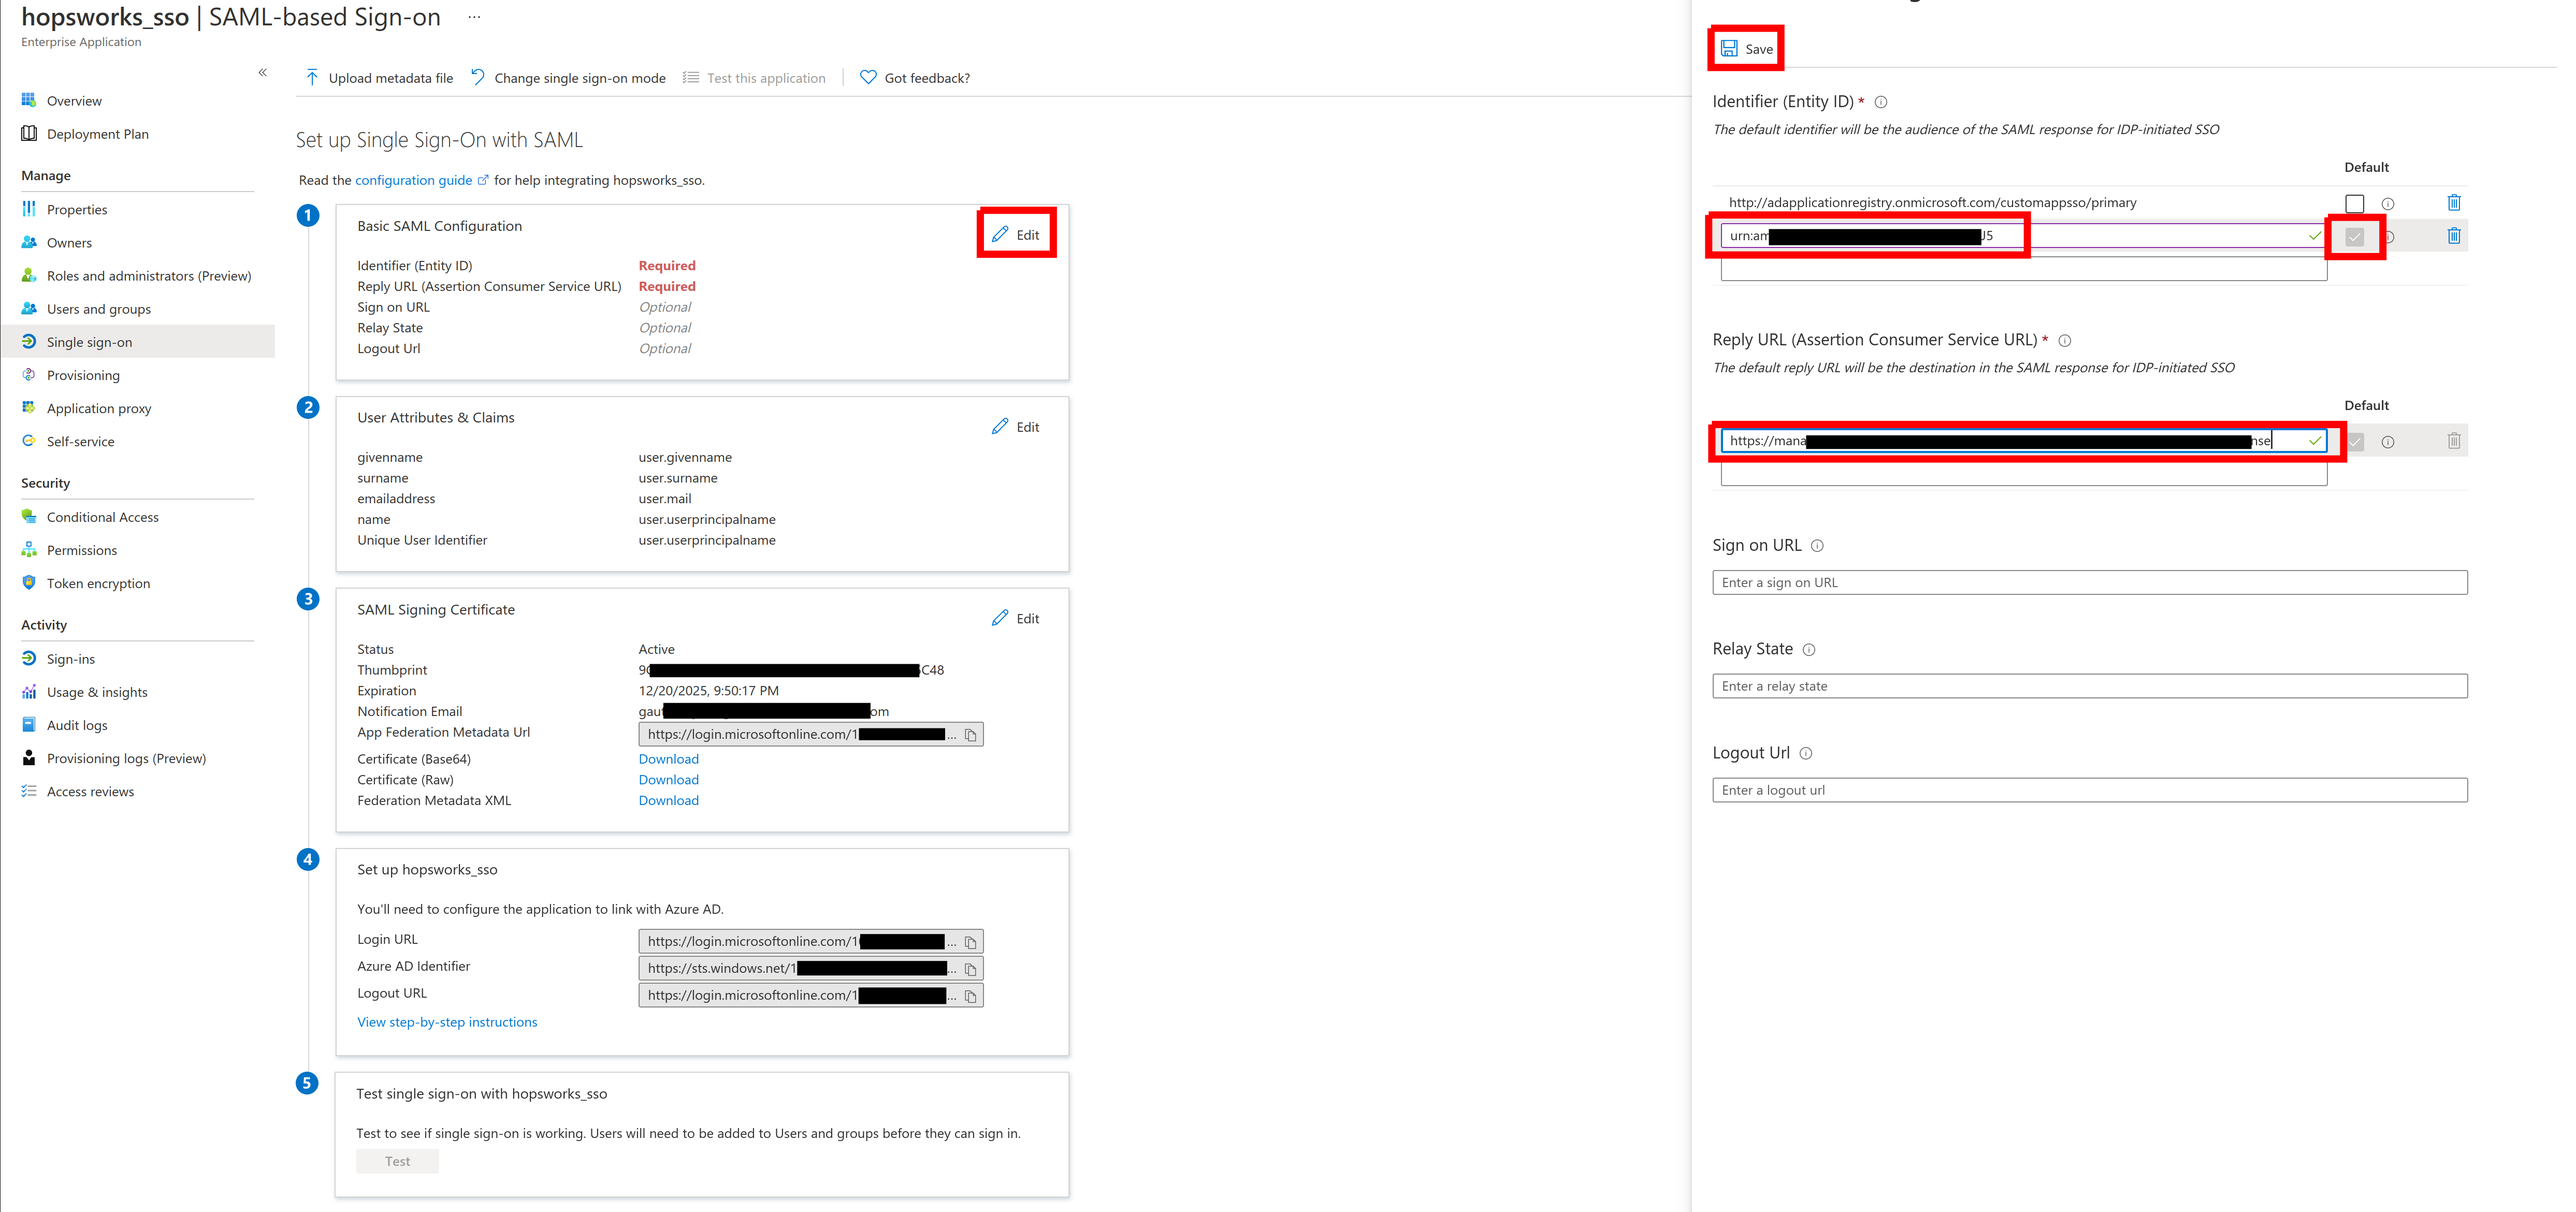
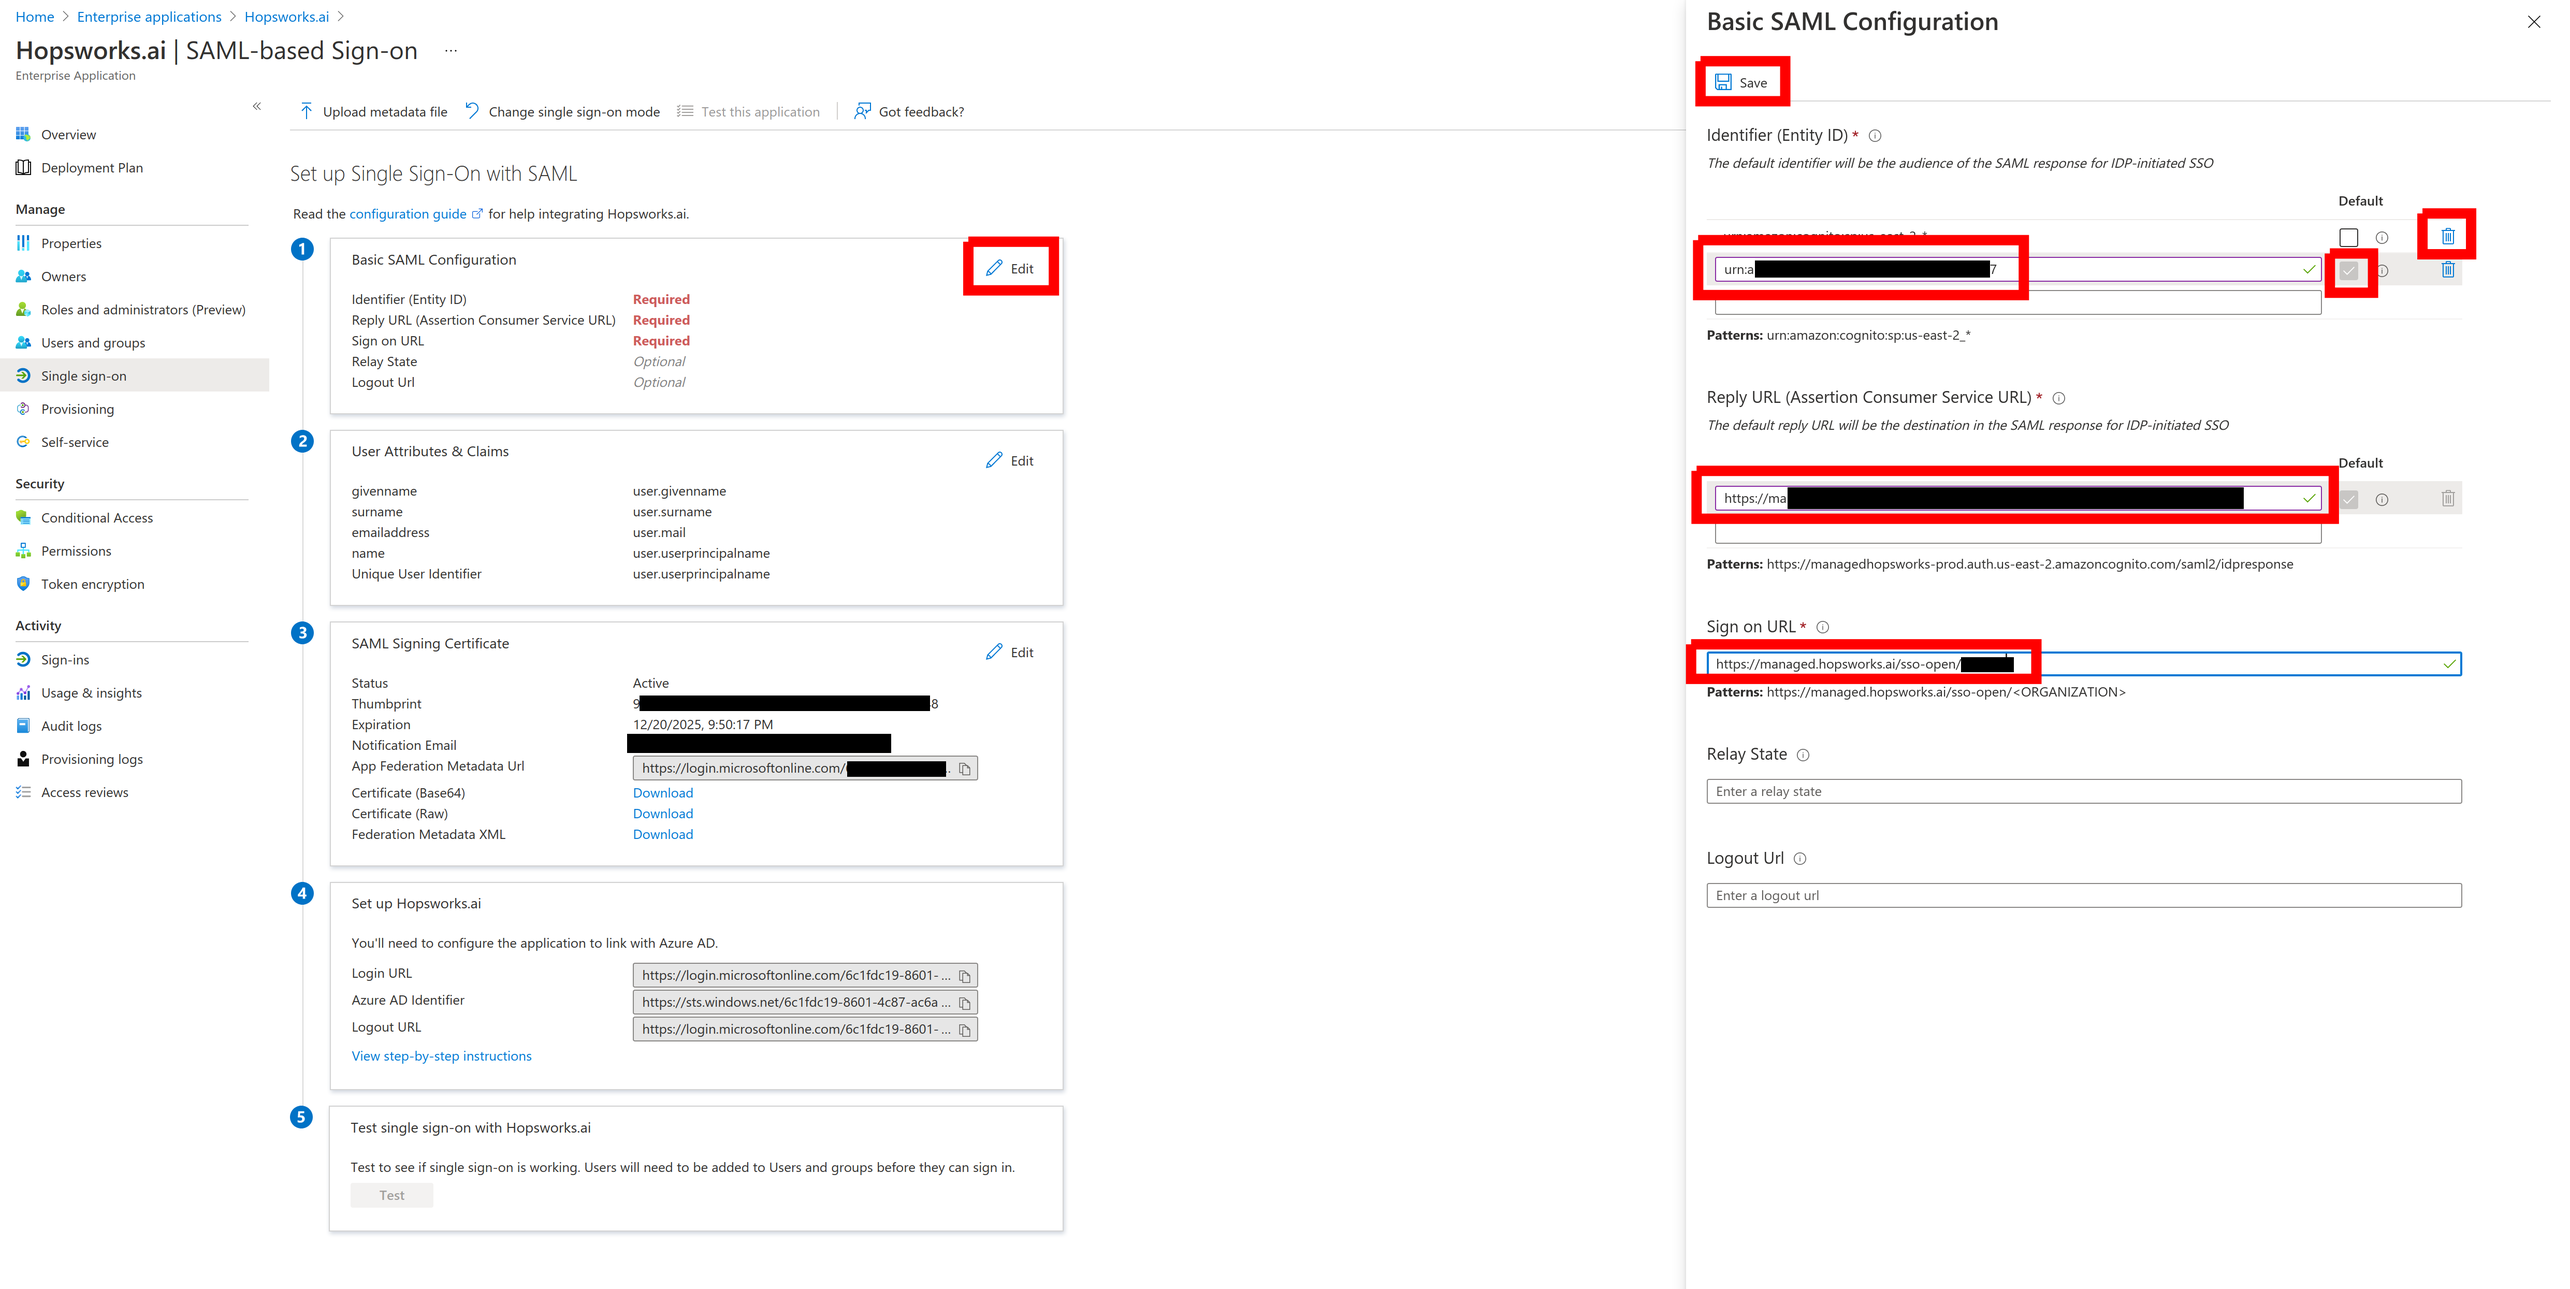
[HOPSWORKS-CLOUD-2177] update hopsworks.ai SSO for Azure

diff --git a/docs/hopsworksai/sso/sso.md b/docs/hopsworksai/sso/sso.md
@@ -42,7 +42,7 @@ Go to the [Azure Portal](https://portal.azure.com) then proceed to the [Active D
   </figure>
 </p>
 
-Click on *Create your own application*. Give a name to your application, for example, *hopsworks_sso*. Make sure that *Integrate any other application you don't find in the gallery (Non-gallery)* is selected and click on *Create*.
+Search for *hopsworks.ai*. Click on it then click on *create*.
 
 <p align="center">
   <figure>
@@ -64,7 +64,12 @@ Click on *Single sign-on*. Then click on *SAML*.
   </figure>
 </p>
 
-Click on *Edit* in the *Basic SAML Configuration* section. Paste the *Identifier (Entity ID)* and *Reply URL* that you copied from the Hopsworks.ai setup page. Click on *Save*.
+Click on *Edit* in the *Basic SAML Configuration* section. Paste the *Identifier (Entity ID)* and *Reply URL* that you copied from the Hopsworks.ai setup page. 
+Delete the wild card *Identifier (Entity ID)* that is already set.
+
+For the *Sign on URL* copy the provided pattern (*https://managed.hopsworks.ai/sso-open/<ORGANIZATION>*) and replace *ORGANIZATION* by the name of your organization
+
+Click on *Save*.
 
 <p align="center">
   <figure>
@@ -96,6 +101,33 @@ Go back to Hopsworks.ai. Click on *Next step* and keep following the documentati
       <img style="border: 1px solid #000" src="../../../assets/images/hopsworksai/sso/hopsworksai/next_step_azure.png" alt="Next step">
     </a>
     <figcaption>Next step</figcaption>
+  </figure>
+</p>
+
+Set the organization name you chose above. This name will be used in your login URL so choose something you will remember. Here we will use *hopsworks-demo*.
+
+Paste the *Metadata URL* you copied above and click *Finish*.
+
+<p align="center">
+  <figure>
+    <a  href="../../../assets/images/hopsworksai/sso/hopsworksai/hopsworks_config.png">
+      <img style="border: 1px solid #000" src="../../../assets/images/hopsworksai/sso/hopsworksai/hopsworks_config.png" alt="Configure Hopsworks.ai">
+    </a>
+    <figcaption>Configure Hopsworks.ai</figcaption>
+  </figure>
+</p>
+
+!!!Note
+    if the organization mane you chose is already used you will need to set a new one and to update the *Sign on URL* in Azure.
+
+If you go back to the *SSO* tab of *Settings* you will get a *logging page* link. By using this link you will automatically be redirected to your identity provider to login. An account will automatically be created in hopsworks.ai for users of your organization when they log in for the first time.
+
+<p align="center">
+  <figure>
+    <a  href="../../../assets/images/hopsworksai/sso/hopsworksai/login_url.png">
+      <img style="border: 1px solid #000" src="../../../assets/images/hopsworksai/sso/hopsworksai/login_url.png" alt="Configure Hopsworks.ai">
+    </a>
+    <figcaption>Configure Hopsworks.ai</figcaption>
   </figure>
 </p>
 
@@ -216,7 +248,7 @@ Click on Copy URL on the *AWS SSO SAML metadata file* line. We will call this UR
   </figure>
 </p>
 
-Go back to Hopsworks.ai. Click on *Next step* and keep following the documentation at [Configure Hopsworks.ai](#configure-hopsworksai).
+Go back to Hopsworks.ai. Click on *Next step*.
 
 <p align="center">
   <figure>
@@ -227,7 +259,6 @@ Go back to Hopsworks.ai. Click on *Next step* and keep following the documentati
   </figure>
 </p>
 
-## Configure Hopsworks.ai.
 Give a name to your organization. This name will be used in your login URL so choose something you will remember. Here we will use *hopsworks-demo*.
 
 Paste the *Metadata URL* you copied above and click *Finish*.
